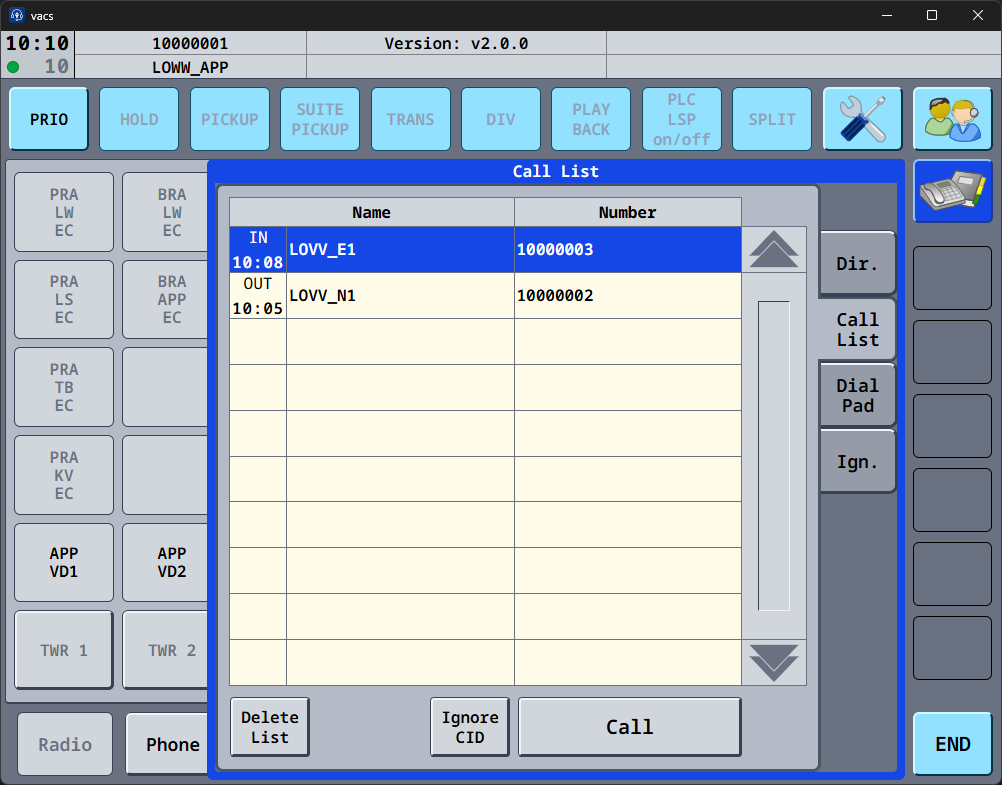
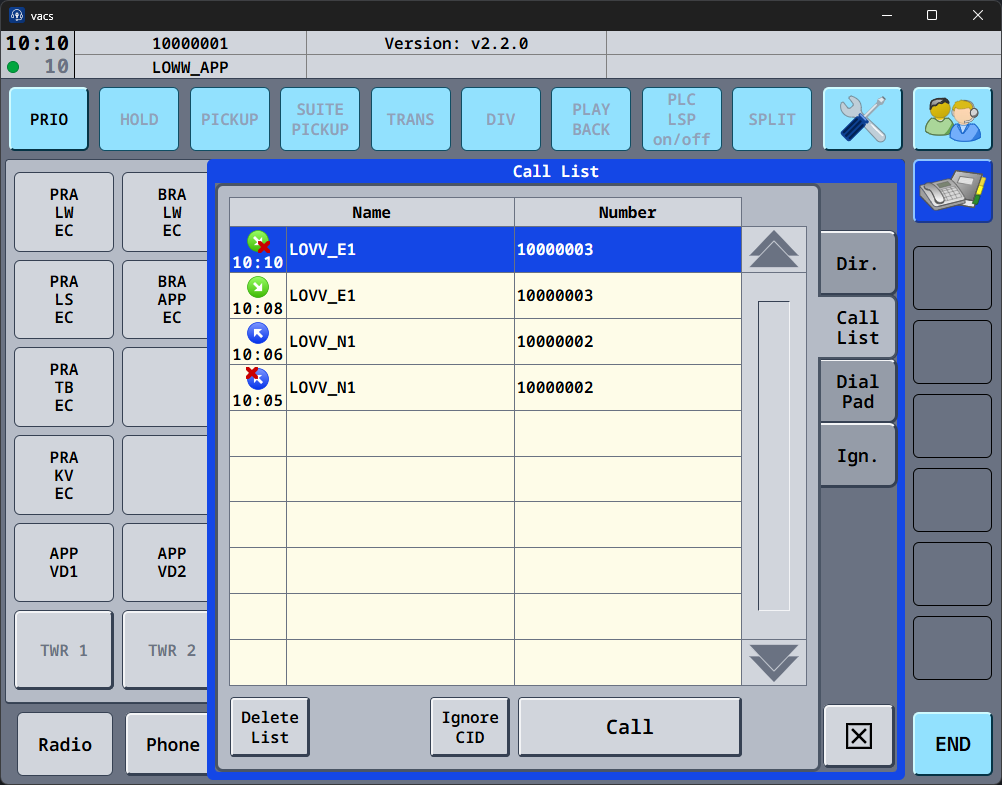
add radio page documentation

diff --git a/docs/interface/radio.md b/docs/interface/radio.md
@@ -1,0 +1,165 @@
+---
+sidebar_position: 3
+---
+
+# Radio Page
+
+The **Radio page** integrates with [TrackAudio](https://github.com/pierr3/TrackAudio) and lets you manage your radio stack without leaving the vacs window. It is only available when TrackAudio is running and connected.
+
+:::warning
+The Radio page is currently only available if the TrackAudio radio integration is selected in the transmit configuration. See [Transmit Modes](/settings/transmit) for more information.
+
+The page remains inactive if you use the Audio for Vatsim radio integration. 
+:::
+
+<img
+src="/img/radio/radio_overview.png"
+alt="Radio Page"
+style={{
+    width: "80%",
+    display: "block",
+    margin: "1.5rem auto",
+    borderRadius: "8px",
+    boxShadow: "0 4px 16px rgba(0,0,0,0.08)"
+  }}
+/>
+
+---
+
+## Add a station
+
+To add a station, enter the desired callsign in the text field and hit enter or click the "+" button next to it. Manually adding a frequency is not supported.
+
+:::info
+This will only add the exact station you entered due to a limitation of the TrackAudio API.
+Adding all child stations automatically is not possible.
+:::
+
+:::note
+Removing a station is currently not supported due to a limitation of the TrackAudio API.
+:::
+
+## Frequency Object
+
+A frequency object represents a single station in its current state and controls its usage.
+
+<img
+src="/img/radio/radio_freqobj.png"
+alt="Frequency Object"
+style={{
+    width: "10.5rem",
+    display: "block",
+    margin: "1.5rem auto",
+    borderRadius: "8px",
+    boxShadow: "0 4px 16px rgba(0,0,0,0.08)"
+  }}
+/>
+
+---
+
+You can toggle receiving and transmitting by clicking either Rx or Tx. Clicking Tx automatically enables Rx.
+
+<div style={{display: "flex", gap: "2rem", justifyContent: "center", alignItems: "center", marginBottom: "var(--ifm-leading)"}}>
+<img
+src="/img/radio/radio_freqobj_rx.png"
+alt="Frequency Object Rx"
+style={{
+    width: "10.5rem",
+    display: "block",
+    borderRadius: "8px",
+    boxShadow: "0 4px 16px rgba(0,0,0,0.08)"
+  }}
+/>
+
+<img
+src="/img/radio/radio_freqobj_tx.png"
+alt="Frequency Object Tx"
+style={{
+    width: "10.5rem",
+    display: "block",
+    borderRadius: "8px",
+    boxShadow: "0 4px 16px rgba(0,0,0,0.08)"
+  }}
+/>
+</div>
+
+If you actively receive or transmit on that station, the respective button will be blue.
+
+<div style={{display: "flex", gap: "2rem", justifyContent: "center", alignItems: "center", marginBottom: "var(--ifm-leading)"}}>
+<img
+src="/img/radio/radio_freqobj_rx_active.png"
+alt="Frequency Object Rx Active"
+style={{
+    width: "10.5rem",
+    display: "block",
+    borderRadius: "8px",
+    boxShadow: "0 4px 16px rgba(0,0,0,0.08)"
+  }}
+/>
+
+<img
+src="/img/radio/radio_freqobj_tx_active.png"
+alt="Frequency Object Tx Active"
+style={{
+    width: "10.5rem",
+    display: "block",
+    borderRadius: "8px",
+    boxShadow: "0 4px 16px rgba(0,0,0,0.08)"
+  }}
+/>
+</div>
+
+By clicking the speaker icon, audio output can be toggled to the speaker device configured in TrackAudio.
+
+<img
+src="/img/radio/radio_freqobj_speaker.png"
+alt="Frequency Object Speaker"
+style={{
+    width: "10.5rem",
+    display: "block",
+    margin: "1.5rem auto",
+    borderRadius: "8px",
+    boxShadow: "0 4px 16px rgba(0,0,0,0.08)"
+  }}
+/>
+
+:::warning
+The headset and speaker devices playing the radio transmissions are **separate** from the ones in vacs and need to be configured in TrackAudio.
+:::
+
+## Cross Coupling
+
+Cross coupling one or more frequencies can be achieved by clicking the **CPL** button and then clicking the desired frequency objects.
+When your done, click the **CPL** button again to finish the process.
+
+:::note
+Do not click the Rx, Tx or speaker button, but the left side of the frequency object.
+
+Cross coupling automatically enables Tx and Rx.
+:::
+
+<img
+src="/img/radio/radio_cross_couple.gif"
+alt="Frequency Cross Couple"
+style={{
+    width: "80%",
+    display: "block",
+    margin: "1.5rem auto",
+    borderRadius: "8px",
+    boxShadow: "0 4px 16px rgba(0,0,0,0.08)"
+  }}
+/>
+
+A cross coupled frequency is indicated by two arrows next to the speaker.
+
+<img
+src="/img/radio/radio_freqobj_cross_coupled.png"
+alt="Frequency Object Speaker"
+style={{
+    width: "10.5rem",
+    display: "block",
+    margin: "1.5rem auto",
+    borderRadius: "8px",
+    boxShadow: "0 4px 16px rgba(0,0,0,0.08)"
+  }}
+/>

diff --git a/docs/interface/telephone.md b/docs/interface/telephone.md
@@ -87,7 +87,8 @@ style={{
 
 Each entry contains:
 
-- **Call direction** (IN or OUT)
+- **Call direction and state** (green = incoming; blue = outgoing)
+  - If the state contains a red x, the call did not establish
 - **Time of the call**
 - **Name of the station**
 - **Telephone number**(= VATSIM CID)
